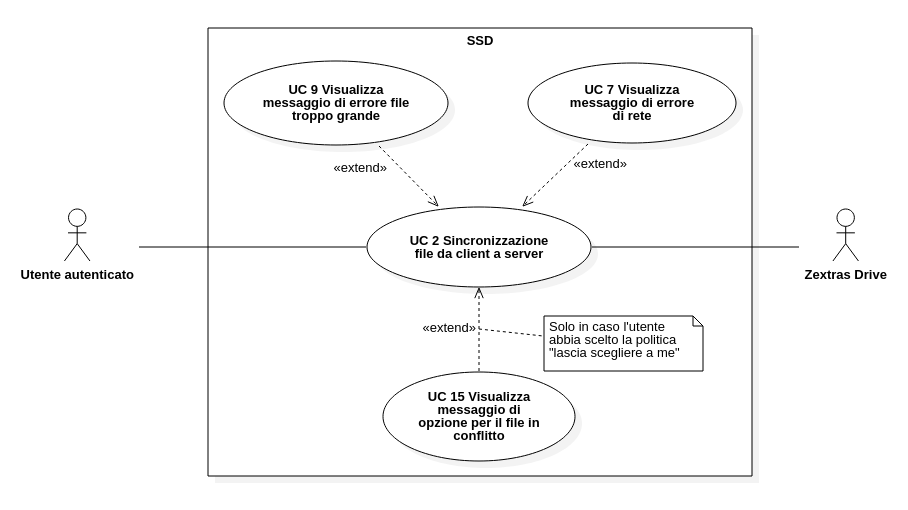
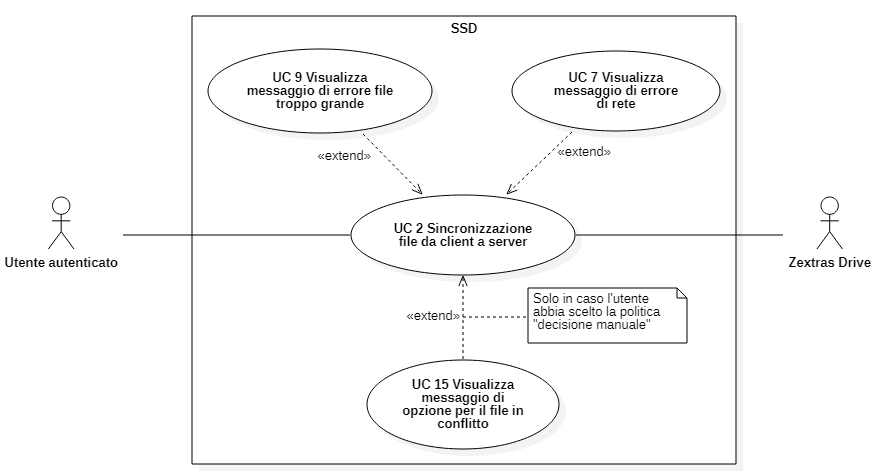
Fix vari

diff --git a/Esterni/AnalisiDeiRequisiti/components/requisiti_funzionali.tex b/Esterni/AnalisiDeiRequisiti/components/requisiti_funzionali.tex
@@ -10,7 +10,7 @@ Il gruppo \gruppo{} ha classificato e assegnato i \glo{requisiti} secondo quanto
     \setlength{\belowrulesep}{0pt}
     \rowcolors{2}{AzzurroGruppo!10}{white}
     \begin{longtable}{C{.20\freewidth} C{.40\freewidth} C{.20\freewidth} C{.20\freewidth}}
-        \toprule 
+        \toprule
         \rowcolor{AzzurroGruppo!30}
         \textbf{Requisito} & \textbf{Descrizione} & \textbf{Classificazione} & \textbf{Fonti} \\
         \toprule
@@ -38,6 +38,20 @@ Il gruppo \gruppo{} ha classificato e assegnato i \glo{requisiti} secondo quanto
         RFD11.0  & L'utente deve essere in grado di visualizzare le informazioni dell'applicativo & Desiderabile & Decisione interna \\
         RFO12.0  & L'applicazione deve poter comunicare con \glo{Zextras Drive} & Obbligatorio & Capitolato \\
         RFD13.0  & L'applicazione deve avviarsi in automatico all'avvio del computer & Desiderabile & Decisione interna \\
+
+        RFD14.0  & L'utente deve essere in grado di decidere quanto spazio dedicare ai file sincronizzati con il cloud & Desiderabile & UC4 \\
+        RFO15.0  & L'utente deve poter effettuare il logout dall'applicazione & Obbligatorio & UC5 \\
+        RFF16.0  & L'utente può vedere all'interno dell'applicazione i dettagli dei file sincronizzati & Facoltativo & UC6 \\
+        RFF16.1  & L'utente può richiedere all'applicazione un link da poter inviare ad altre persone per condividere dei file presenti nel cloud & Facoltativo & UC6.5 \\
+        RFO17.0  & L'utente deve poter essere informato di eventuali errori di rete durante la sincronizzazione & Obbligatorio & UC7 \\
+        RFO18.0  & L'utente deve poter essere informato di un errore nell'inserimento delle credenziali & Obbligatorio & UC8 \\
+        RFD19.0  & L'utente deve poter essere informato di un errore nella sincronizzazione del file perchè lo spazio in cloud non è sufficiente & Desiderabile & UC9 \\
+        RFD20.0  & L'utente deve poter essere informato di un errore nella sincronizzazione del file perchè lo spazio in locale non è sufficiente & Desiderabile & UC10 \\
+        RFD21.0  & L'utente deve essere informato nel caso inserisca un valore di quota disco non adatto & Desiderabile & UC11/UC12 \\
+        RFO22.0  & L'utente deve poter scegliere la cartella root, dove verranno sincronizzati tutti i file tra il client e il server & Obbligatorio & UC13 \\
+        RFD23.0  & L'applicazione deve poter lasciare all'utente la scelta di come gestire i conflitti che verranno generati durante la sincronizzazione & Desiderabile & UC14 \\
+        RFD24.0  & L'utente deve poter visualizzare un messaggio per la risoluzione del conflitto nel caso in cui avesse scelto la politica "decisione manuale" & Desiderabile & UC15 \\
+        RFD25.0  & L'utente deve poter impostare ogni quanto la cartella scelta di root viene sincronizzata con il cloud & Desiderabile & UC16 \\
 
         \bottomrule
         \hiderowcolors

diff --git a/Esterni/AnalisiDeiRequisiti/components/fonte_requisiti.tex b/Esterni/AnalisiDeiRequisiti/components/fonte_requisiti.tex
@@ -17,6 +17,19 @@
         UC2 & RFO02.0 \break RFD02.1 \break RFD02.2 \break RFD02.3 \\
         UC3 & RFO03.0 \break RFD03.1 \break RFD03.2 \break RFD03.3 \\
         UC2/UC3 & RFD05.0 \break RFF06.0 \\
+        UC4 & RFD14.0 \\
+        UC5 & RFO15.0 \\
+        UC6 & RFF16.0 \\
+        UC6.5 & RFF16.1 \\
+        UC7 & RFO17.0 \\
+        UC8 & RFO18.0 \\
+        UC9 & RFD19.0 \\
+        UC10 & RFD20.0 \\
+        UC11/UC12 & RFD21.0 \\
+        UC13 & RFO22.0 \\
+        UC14 & RFD23.0 \\
+        UC15 & RFD24.0 \\
+        UC16 & RFD25.0 \\
         Capitolato & RFO04.0 \break RFO07.0 \break RFO12.0 \break RVO01 \break RVO02 \break RVO03 \break RVO04 \break RVO05 \break RVO06 \break RVD07 \break RVD08 \\
         Decisione interna & RFF08.0 \break RFF09.0 \break RFD10.0 \break RFD11.0 \break RFD13.0 \break RQO01 \break RQO02 \break RQO03 \break RQO04 \break RQD05 \break RQD06 \\
         Dominio & RVD09 \\

diff --git a/Esterni/AnalisiDeiRequisiti/components/requisiti.tex b/Esterni/AnalisiDeiRequisiti/components/requisiti.tex
@@ -31,13 +31,13 @@ Dato che l'applicazione lavora con file locali presenti all'interno del computer
     \begin{longtable}{C{.20\freewidth} C{.20\freewidth} C{.20\freewidth} C{.20\freewidth} C{.20\freewidth}}
         \toprule 
         \rowcolor{AzzurroGruppo!30}
-        \textbf{Tipologia} & \textbf{Obbligatorio} & \textbf{Facoltativo} & \textbf{Desiderabile} & \textbf{Totale}\\
+        \textbf{Tipologia} & \textbf{Obbligatorio} & \textbf{Desiderabile} & \textbf{Facoltativo} & \textbf{Totale}\\
         \toprule
         \endhead
 
-        Funzionale    & 6 & 3 & 10 & 19 \\
-        Di vincolo    & 6 & 0 & 3 & 9 \\
-        Di qualità    & 4 & 0 & 2 & 6 \\
+        Funzionale    & 10 & 17 & 5 & 32 \\
+        Di vincolo    & 6 & 3 & 0 & 9 \\
+        Di qualità    & 4 & 2 & 0 & 6 \\
         \bottomrule
         \hiderowcolors
         \caption{Tabella Riepilogo requisiti}

diff --git a/Esterni/AnalisiDeiRequisiti/components/requisiti_fonte.tex b/Esterni/AnalisiDeiRequisiti/components/requisiti_fonte.tex
@@ -33,6 +33,20 @@
         RFO12.0  & Capitolato \\
         RFD13.0  & Decisione interna \\
 
+        RFD14.0  & UC4 \\
+        RFO15.0  & UC5 \\
+        RFF16.0  & UC6 \\
+        RFF16.1  & UC6.5 \\
+        RFO17.0  & UC7 \\
+        RFO18.0  & UC8 \\
+        RFD19.0  & UC9 \\
+        RFD20.0  & UC10 \\
+        RFD21.0  & UC11/UC12 \\
+        RFO22.0  & UC13 \\
+        RFD23.0  & UC14 \\
+        RFD24.0  & UC15 \\
+        RFD25.0  & UC16 \\
+
         RVO01    & Capitolato \\
         RVO02    & Capitolato \\
         RVO03    & Capitolato \\

diff --git a/Esterni/AnalisiDeiRequisiti/components/introduzione.tex b/Esterni/AnalisiDeiRequisiti/components/introduzione.tex
@@ -18,6 +18,7 @@ Nel documento corrente si è deciso di segnare tutte le parole presenti nel \G{}
       \url{https://www.math.unipd.it/~tullio/IS-1/2020/Progetto/C7.pdf}
 \item \NdP{} \versNdP ;
 \item \VE{} 2020-12-28; %incontro con l'azienda
+\item \VE{} 2021-02-18; %incontro con l'azienda
 \end{itemize}
 
 \subsubsection{Riferimenti informativi}

diff --git a/Esterni/AnalisiDeiRequisiti/components/uc/uc2.tex b/Esterni/AnalisiDeiRequisiti/components/uc/uc2.tex
@@ -2,7 +2,7 @@
 \label{UC2}
 \begin{figure}[H]
     \centering
-    \includegraphics[scale = 0.5]{components/img/UC2.png}
+    \includegraphics[scale = 0.7]{components/img/UC2.png}
     \caption{UC2 - Sincronizzazione file da client a server}
 \end{figure}
 \begin{itemize}
